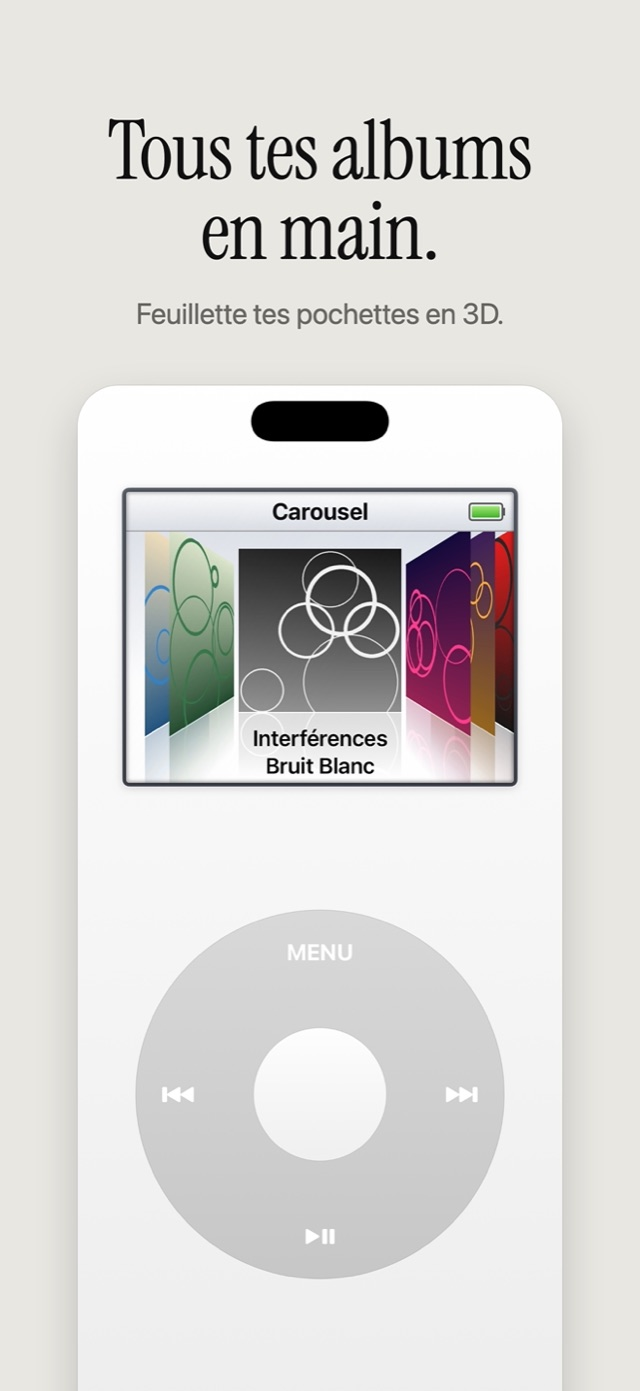
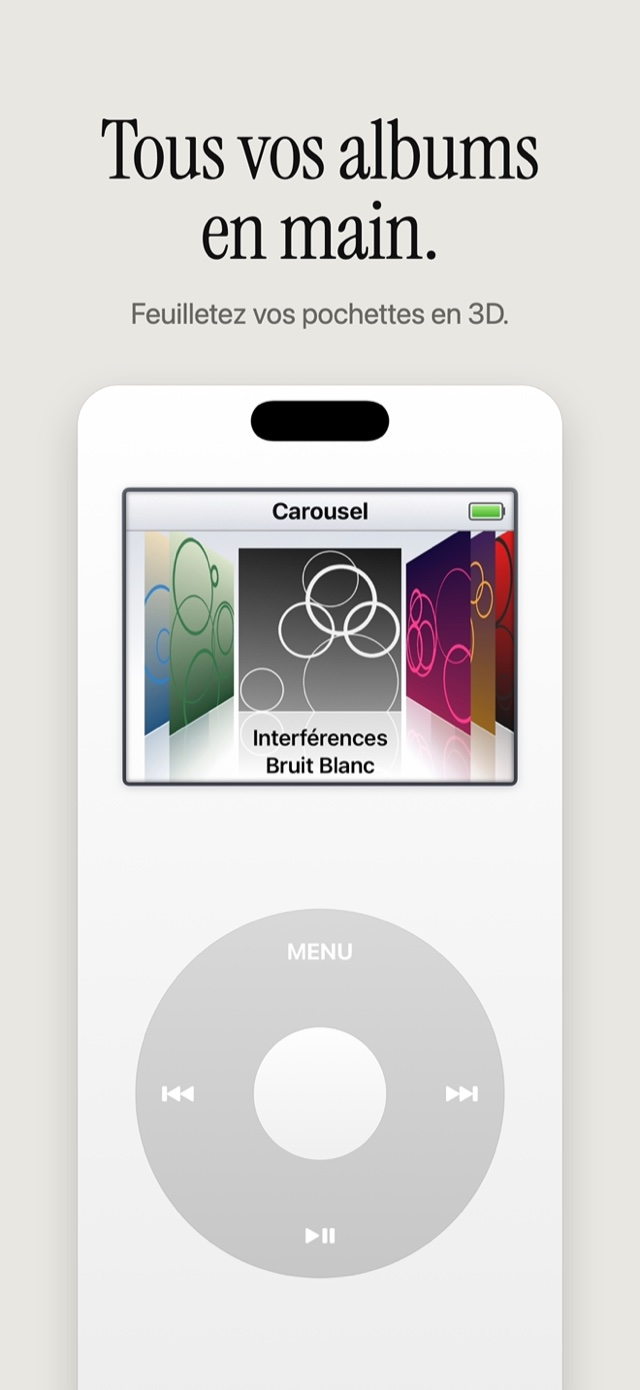
Molette FR: vouvoiement (page, og image, screenshots)
Claude-Session: https://claude.ai/code/session_01PY9Ypin1SATWpodcyXdqtg

diff --git a/molette/fr/index.html b/molette/fr/index.html
@@ -4,15 +4,15 @@
 <meta charset="utf-8">
 <meta name="viewport" content="width=device-width, initial-scale=1">
 <title>Molette : lecteur MP3 et FLAC rétro à molette pour iPhone</title>
-<meta name="description" content="Molette transforme ton iPhone en baladeur de poche, avec une molette qui clique. Il lit tes propres fichiers MP3, FLAC, ALAC, WAV et AIFF, sans blanc entre les morceaux, sans compte ni abonnement. 25 premiers albums gratuits.">
+<meta name="description" content="Molette transforme votre iPhone en baladeur de poche, avec une molette qui clique. Il lit vos propres fichiers MP3, FLAC, ALAC, WAV et AIFF, sans blanc entre les morceaux, sans compte ni abonnement. 25 premiers albums gratuits.">
 <link rel="canonical" href="https://www.awakeprod.fr/molette/fr/">
 <link rel="alternate" hreflang="en" href="https://www.awakeprod.fr/molette/">
 <link rel="alternate" hreflang="fr" href="https://www.awakeprod.fr/molette/fr/">
 <link rel="alternate" hreflang="x-default" href="https://www.awakeprod.fr/molette/">
 <meta name="apple-itunes-app" content="app-id=6834086865">
 <meta property="og:type" content="website">
-<meta property="og:title" content="Molette : ta musique, une molette">
-<meta property="og:description" content="Un baladeur de poche à molette pour tes propres fichiers MP3 et FLAC. Sans compte, sans abonnement.">
+<meta property="og:title" content="Molette : votre musique, une molette">
+<meta property="og:description" content="Un baladeur de poche à molette pour vos propres fichiers MP3 et FLAC. Sans compte, sans abonnement.">
 <meta property="og:url" content="https://www.awakeprod.fr/molette/fr/">
 <meta property="og:image" content="https://www.awakeprod.fr/molette/img/og-fr.jpg">
 <meta property="og:locale" content="fr_FR">
@@ -24,19 +24,19 @@
 <script type="application/ld+json">
 {"@context":"https://schema.org","@graph":[
 {"@type":"SoftwareApplication","name":"Molette","operatingSystem":"iOS 17 ou ultérieur","applicationCategory":"MultimediaApplication","applicationSubCategory":"Lecteur de musique",
- "description":"Baladeur de poche pour iPhone avec une molette qui clique. Lit tes propres fichiers MP3, AAC, M4A, ALAC, FLAC, WAV et AIFF, sans blanc entre les morceaux, hors ligne, sans compte ni abonnement. 25 premiers albums gratuits ; Illimité est un achat intégré unique.",
+ "description":"Baladeur de poche pour iPhone avec une molette qui clique. Lit vos propres fichiers MP3, AAC, M4A, ALAC, FLAC, WAV et AIFF, sans blanc entre les morceaux, hors ligne, sans compte ni abonnement. 25 premiers albums gratuits ; Illimité est un achat intégré unique.",
  "url":"https://www.awakeprod.fr/molette/fr/","downloadUrl":"https://apps.apple.com/fr/app/id6834086865","image":"https://www.awakeprod.fr/molette/icon.png",
  "screenshot":["https://www.awakeprod.fr/molette/img/shot-fr-2.jpg","https://www.awakeprod.fr/molette/img/shot-fr-3.jpg"],
  "inLanguage":["fr","en","de","es","it","pt-BR","nl","sv","pl","tr","ru","ja","ko","zh-Hans","zh-Hant"],
  "offers":{"@type":"Offer","price":"0","priceCurrency":"EUR"},
  "author":{"@type":"Person","name":"Julien Raulot"}},
 {"@type":"FAQPage","mainEntity":[
- {"@type":"Question","name":"Comment lire des fichiers FLAC sur iPhone sans abonnement ?","acceptedAnswer":{"@type":"Answer","text":"Installe Molette, copie tes dossiers d'albums FLAC dans Sur mon iPhone › Molette avec l'app Fichiers ou depuis un ordinateur, et Molette les lit hors ligne, sans blanc entre les morceaux, sans compte. Les 25 premiers albums sont gratuits et Illimité se paie une seule fois."}},
- {"@type":"Question","name":"Comment mettre ma musique dans Molette ?","acceptedAnswer":{"@type":"Answer","text":"Sur un ordinateur, branche ton iPhone, ouvre le Finder (ou Appareils Apple sous Windows), va dans Fichiers et dépose tes dossiers d'albums sur Molette. Sur l'iPhone, ouvre l'app Fichiers et copie tes dossiers dans Sur mon iPhone › Molette."}},
+ {"@type":"Question","name":"Comment lire des fichiers FLAC sur iPhone sans abonnement ?","acceptedAnswer":{"@type":"Answer","text":"Installez Molette, copiez vos dossiers d'albums FLAC dans Sur mon iPhone › Molette avec l'app Fichiers ou depuis un ordinateur, et Molette les lit hors ligne, sans blanc entre les morceaux, sans compte. Les 25 premiers albums sont gratuits et Illimité se paie une seule fois."}},
+ {"@type":"Question","name":"Comment mettre ma musique dans Molette ?","acceptedAnswer":{"@type":"Answer","text":"Sur un ordinateur, branchez votre iPhone, ouvrez le Finder (ou Appareils Apple sous Windows), allez dans Fichiers et déposez vos dossiers d'albums sur Molette. Sur l'iPhone, ouvrez l'app Fichiers et copiez vos dossiers dans Sur mon iPhone › Molette."}},
  {"@type":"Question","name":"Quels formats Molette lit-il ?","acceptedAnswer":{"@type":"Answer","text":"MP3, AAC, M4A, ALAC, FLAC, WAV, AIFF et CAF. Les albums s'enchaînent sans blanc. Molette utilise la pochette intégrée au fichier, sinon une image JPG ou PNG du dossier de l'album."}},
- {"@type":"Question","name":"Molette est-il gratuit ?","acceptedAnswer":{"@type":"Answer","text":"Oui pour tes 25 premiers albums, sans limite de durée. Illimité est un achat intégré unique, pas un abonnement. Il lève la limite d'albums et ajoute Nettoyer les noms, sept coques de couleur et un widget pour l'écran d'accueil."}},
- {"@type":"Question","name":"Faut-il une connexion internet ou un compte ?","acceptedAnswer":{"@type":"Answer","text":"Non. Molette n'a ni compte, ni serveur, ni publicité, et ne collecte aucune donnée. Ta musique reste sur ton iPhone."}},
- {"@type":"Question","name":"La musique continue-t-elle en arrière-plan ?","acceptedAnswer":{"@type":"Answer","text":"Oui. La musique continue écran verrouillé, et tu peux mettre en pause, passer ou revenir en arrière depuis l'écran verrouillé, le centre de contrôle ou tes écouteurs."}}
+ {"@type":"Question","name":"Molette est-il gratuit ?","acceptedAnswer":{"@type":"Answer","text":"Oui pour vos 25 premiers albums, sans limite de durée. Illimité est un achat intégré unique, pas un abonnement. Il lève la limite d'albums et ajoute Nettoyer les noms, sept coques de couleur et un widget pour l'écran d'accueil."}},
+ {"@type":"Question","name":"Faut-il une connexion internet ou un compte ?","acceptedAnswer":{"@type":"Answer","text":"Non. Molette n'a ni compte, ni serveur, ni publicité, et ne collecte aucune donnée. Votre musique reste sur votre iPhone."}},
+ {"@type":"Question","name":"La musique continue-t-elle en arrière-plan ?","acceptedAnswer":{"@type":"Answer","text":"Oui. La musique continue écran verrouillé, et vous pouvez mettre en pause, passer ou revenir en arrière depuis l'écran verrouillé, le centre de contrôle ou vos écouteurs."}}
 ]}]}
 </script>
 </head>
@@ -46,8 +46,8 @@
 
 <section class="hero">
 <img class="icon" src="/molette/icon.png" alt="Icône de l'app Molette" width="80" height="80">
-<h1>Ta musique.<br>Une molette.</h1>
-<p class="sub">Molette transforme ton iPhone en baladeur de poche. Tu fais tourner la molette du pouce, chaque cran clique, et tu écoutes les fichiers qui t'appartiennent.</p>
+<h1>Votre musique.<br>Une molette.</h1>
+<p class="sub">Molette transforme votre iPhone en baladeur de poche. Vous faites tourner la molette du pouce, chaque cran clique, et vous écoutez les fichiers qui vous appartiennent.</p>
 <a class="badge" href="https://apps.apple.com/fr/app/id6834086865"><img src="/molette/img/app-store-fr-fr.svg" alt="Télécharger dans l'App Store" width="171" height="54"></a>
 </section>
 
@@ -60,35 +60,35 @@
 
 <div class="cols">
 <div><h2>Une molette qu'on sent</h2>
-<p>Chaque cran clique, avec une petite vibration sous le pouce. Un appui au centre, et l'album démarre. Feuillette tes pochettes dans un Carousel en 3D, et coupe le clic dans les réglages si tu préfères le silence.</p></div>
-<div><h2>Tes fichiers, sur ton téléphone</h2>
-<p>Copie tes dossiers d'albums depuis un Mac, un PC ou l'app Fichiers. Molette les range par album et par artiste, avec les pochettes. Tu n'as besoin ni d'un compte ni d'une connexion, et il n'y a ni abonnement ni publicité.</p></div>
+<p>Chaque cran clique, avec une petite vibration sous le pouce. Un appui au centre, et l'album démarre. Feuilletez vos pochettes dans un Carousel en 3D, et coupez le clic dans les réglages si vous préférez le silence.</p></div>
+<div><h2>Vos fichiers, sur votre téléphone</h2>
+<p>Copiez vos dossiers d'albums depuis un Mac, un PC ou l'app Fichiers. Molette les range par album et par artiste, avec les pochettes. Vous n'avez besoin ni d'un compte ni d'une connexion, et il n'y a ni abonnement ni publicité.</p></div>
 <div><h2>FLAC et sans perte</h2>
-<p>Le FLAC, l'ALAC, le WAV et l'AIFF se lisent à côté de tes MP3, AAC et M4A. Les albums s'enchaînent sans blanc : un live ou un mix DJ passe d'un morceau au suivant sans coupure.</p></div>
+<p>Le FLAC, l'ALAC, le WAV et l'AIFF se lisent à côté de vos MP3, AAC et M4A. Les albums s'enchaînent sans blanc : un live ou un mix DJ passe d'un morceau au suivant sans coupure.</p></div>
 <div><h2>Écran verrouillé, ça joue</h2>
 <p>Lecture en arrière-plan, commandes sur l'écran verrouillé et sur les écouteurs, lecture aléatoire et répétition. Molette parle 15 langues.</p></div>
 </div>
 
 <section class="price">
 <h2>25 albums gratuits.<br>Puis un seul paiement.</h2>
-<p class="sub">Tes 25 premiers albums sont gratuits, sans limite de durée. Illimité s'achète une fois, ce n'est pas un abonnement. Il ajoute tous tes albums, Nettoyer les noms, sept coques de couleur et le widget de l'écran d'accueil.</p>
+<p class="sub">Vos 25 premiers albums sont gratuits, sans limite de durée. Illimité s'achète une fois, ce n'est pas un abonnement. Il ajoute tous vos albums, Nettoyer les noms, sept coques de couleur et le widget de l'écran d'accueil.</p>
 <a class="badge" href="https://apps.apple.com/fr/app/id6834086865"><img src="/molette/img/app-store-fr-fr.svg" alt="Télécharger dans l'App Store" width="171" height="54"></a>
 </section>
 
 <section class="faq">
 <h2>Questions</h2>
 <h3>Comment lire des fichiers FLAC sur iPhone sans abonnement ?</h3>
-<p>Installe Molette, copie tes dossiers d'albums FLAC dans Sur mon iPhone › Molette avec l'app Fichiers ou depuis un ordinateur, et Molette les lit hors ligne, sans blanc entre les morceaux, sans compte. Les 25 premiers albums sont gratuits et Illimité se paie une seule fois.</p>
+<p>Installez Molette, copiez vos dossiers d'albums FLAC dans Sur mon iPhone › Molette avec l'app Fichiers ou depuis un ordinateur, et Molette les lit hors ligne, sans blanc entre les morceaux, sans compte. Les 25 premiers albums sont gratuits et Illimité se paie une seule fois.</p>
 <h3>Comment mettre ma musique dans Molette ?</h3>
-<p>Sur un ordinateur, branche ton iPhone, ouvre le Finder (ou Appareils Apple sous Windows), va dans Fichiers et dépose tes dossiers d'albums sur Molette. Sur l'iPhone, ouvre l'app Fichiers et copie tes dossiers dans Sur mon iPhone › Molette.</p>
+<p>Sur un ordinateur, branchez votre iPhone, ouvrez le Finder (ou Appareils Apple sous Windows), allez dans Fichiers et déposez vos dossiers d'albums sur Molette. Sur l'iPhone, ouvrez l'app Fichiers et copiez vos dossiers dans Sur mon iPhone › Molette.</p>
 <h3>Quels formats Molette lit-il ?</h3>
 <p>MP3, AAC, M4A, ALAC, FLAC, WAV, AIFF et CAF. Les albums s'enchaînent sans blanc. Molette utilise la pochette intégrée au fichier, sinon une image JPG ou PNG du dossier de l'album.</p>
 <h3>Molette est-il gratuit ?</h3>
-<p>Oui pour tes 25 premiers albums, sans limite de durée. Illimité est un achat intégré unique, pas un abonnement. Il lève la limite d'albums et ajoute Nettoyer les noms, sept coques de couleur et un widget pour l'écran d'accueil.</p>
+<p>Oui pour vos 25 premiers albums, sans limite de durée. Illimité est un achat intégré unique, pas un abonnement. Il lève la limite d'albums et ajoute Nettoyer les noms, sept coques de couleur et un widget pour l'écran d'accueil.</p>
 <h3>Faut-il une connexion internet ou un compte ?</h3>
-<p>Non. Molette n'a ni compte, ni serveur, ni publicité, et ne collecte aucune donnée. Ta musique reste sur ton iPhone.</p>
+<p>Non. Molette n'a ni compte, ni serveur, ni publicité, et ne collecte aucune donnée. Votre musique reste sur votre iPhone.</p>
 <h3>La musique continue-t-elle en arrière-plan ?</h3>
-<p>Oui. La musique continue écran verrouillé, et tu peux mettre en pause, passer ou revenir en arrière depuis l'écran verrouillé, le centre de contrôle ou tes écouteurs.</p>
+<p>Oui. La musique continue écran verrouillé, et vous pouvez mettre en pause, passer ou revenir en arrière depuis l'écran verrouillé, le centre de contrôle ou vos écouteurs.</p>
 </section>
 
 <footer>
